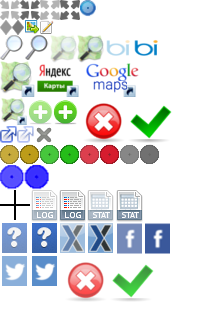
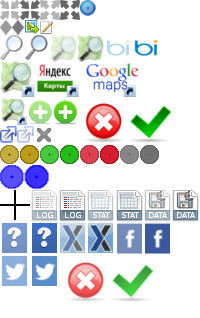
#40 [export] Export data button was added to left panel

Changed region(s): [[0.72, 0.5943, 0.99, 0.7075]]

diff --git a/uik_ru/static/css/main.css b/uik_ru/static/css/main.css
@@ -256,9 +256,17 @@ div.panel div.stat:hover a {
     background: url('../img/sm-icons.png') -116px -190px;
 }
 
+div.panel div.export a {
+    background: url('../img/sm-icons.png') -144px -190px;
+}
+
+div.panel div.export:hover a {
+    background: url('../img/sm-icons.png') -172px -190px;
+}
+
 body div.help-panel {
     left: 309px;
-    top: 232px;
+    top: 273px;
 }
 
 body.searcher-collapsed div.help-panel {
